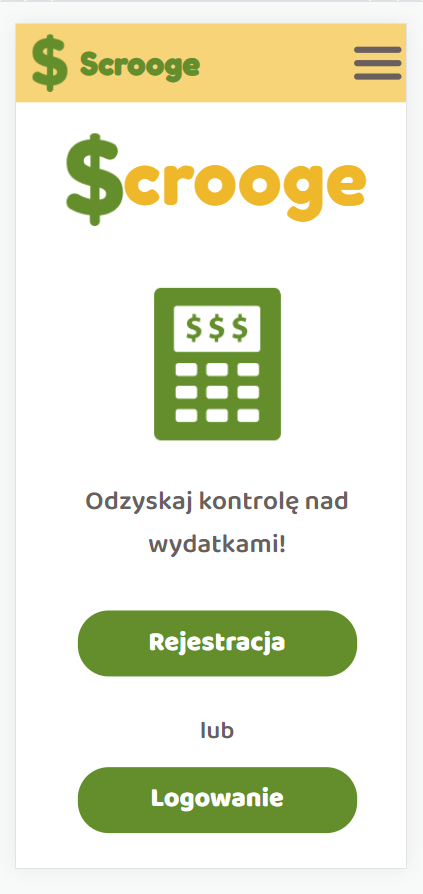
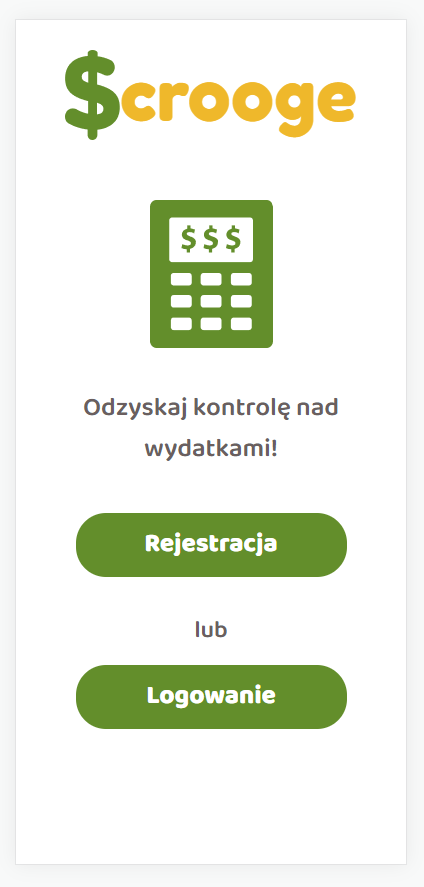
final-update

diff --git a/README.md b/README.md
@@ -105,7 +105,7 @@ With this form user can send request for account recovery based on the email you
 Main page is full of features. Table at the top shows your current budget, then you have the possibility to add new income/expense using "+" button. Separate section show the list of user's inputs and few options of filtering user data (by name, date range or category). Categories can be scrolled from left to right.
 At the bottom there are user records (incomes or expenses). Regarding limited space there is possibility to load more records by selecting "Pokaż więcej". Each record can be edited or removed.
  
-Navigation is simplified and icon-based which increase accessability. For mobile version navigation bar changes into hamburger menu.
+Navigation is simplified and icon-based which increase accessability. It is available only after login/registration of the user. For mobile version navigation bar changes into hamburger menu.  
  
 ![](./src/assets/readme/main.png 'Main page')
 ![](./src/assets/readme/navigation.png 'Main page - navigation')
